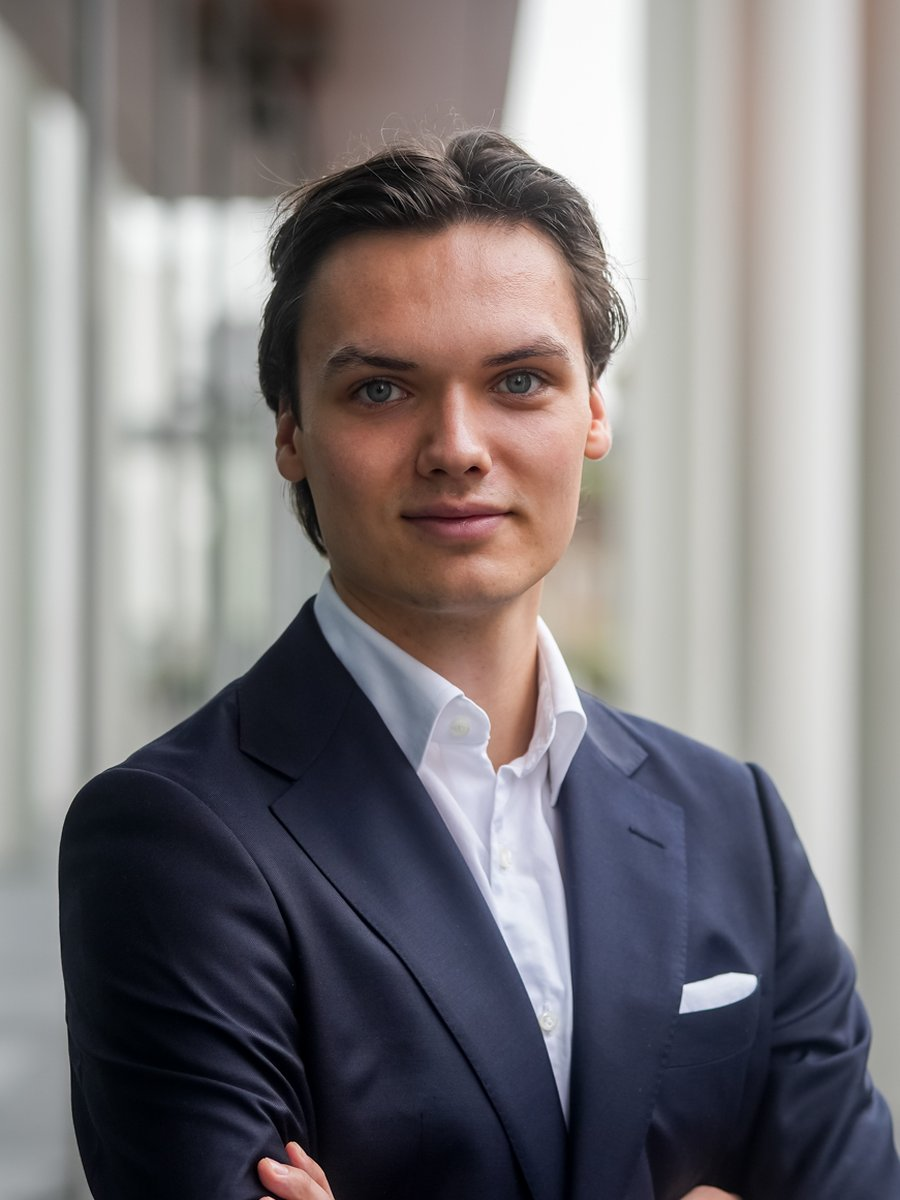
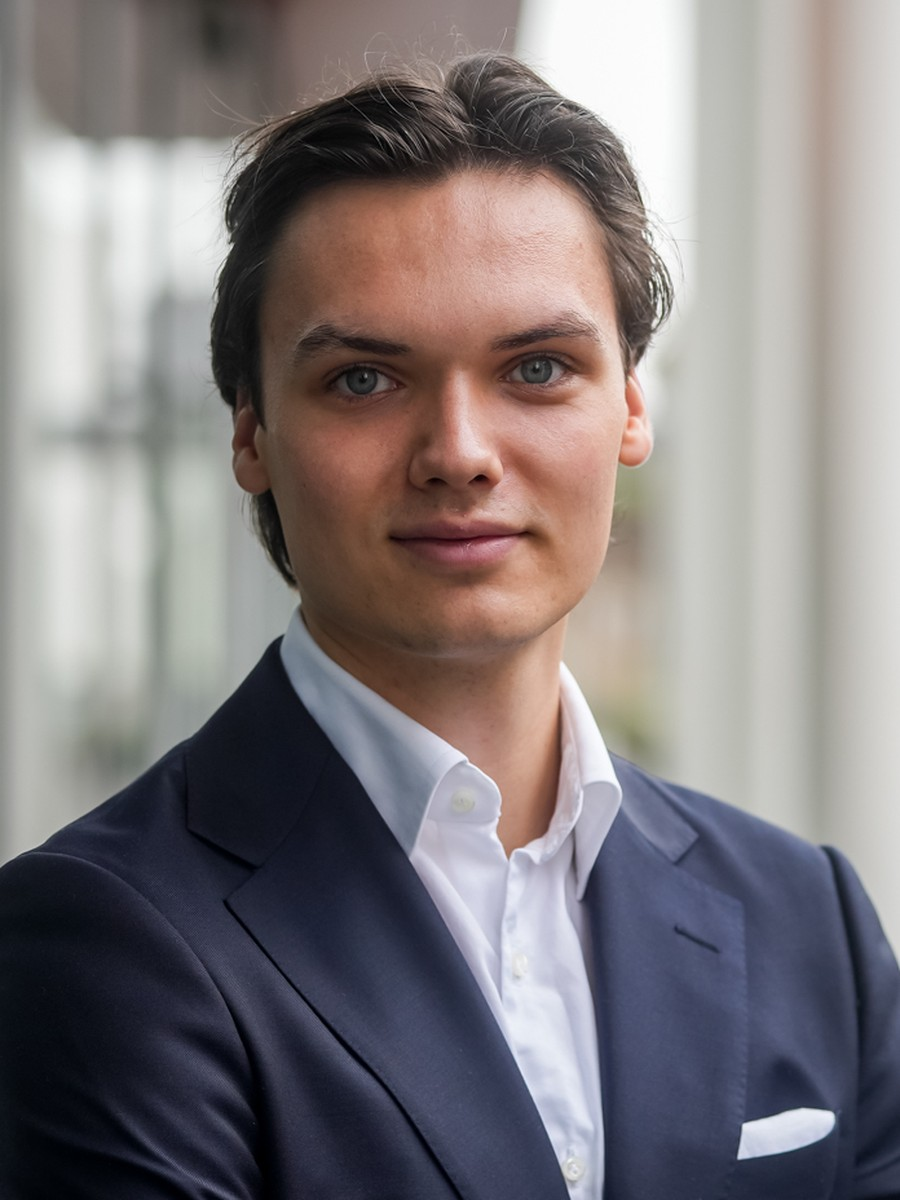
Aligned offer/expect rows, tighter crop for Carl, real event dates with 'dates may change' note
Claude-Session: https://claude.ai/code/session_01QhQBhvbkuQTZysh6s7LxmM

diff --git a/components/OfferExpect.tsx b/components/OfferExpect.tsx
@@ -6,33 +6,40 @@ export interface OfferItem {
   text: string;
 }
 
+/**
+ * One card. On large screens both cards share the same row grid (CSS
+ * subgrid), so item 1 sits next to item 1, item 2 next to item 2, etc.
+ */
 function OfferList({ title, items }: { title: string; items: OfferItem[] }) {
   return (
-    <div className="rounded-2xl bg-gray-50/80 border border-gray-100 p-7 sm:p-10">
-      <h2 className="text-3xl sm:text-4xl font-bold text-navy">{title}</h2>
-      <div className="section-divider mt-4" />
-      <ul className="mt-8 space-y-7">
-        {items.map((item) => (
-          <li key={item.title} className="flex gap-5">
-            <span className="flex-shrink-0 w-14 h-14 rounded-full bg-white shadow-sm flex items-center justify-center">
-              <Image src={item.icon} alt="" width={30} height={30} />
-            </span>
-            <div>
-              <h3 className="text-xl font-bold text-navy">{item.title}</h3>
-              <p className="mt-1 text-[16px] text-navy/70 leading-relaxed">{item.text}</p>
-            </div>
-          </li>
-        ))}
-      </ul>
+    <div
+      className="rounded-2xl bg-gray-50/80 border border-gray-100 p-7 sm:p-10 flex flex-col gap-7 lg:grid lg:grid-rows-subgrid"
+      style={{ gridRow: `span ${items.length + 1}` }}
+    >
+      <div>
+        <h2 className="text-3xl sm:text-4xl font-bold text-navy">{title}</h2>
+        <div className="section-divider mt-4" />
+      </div>
+      {items.map((item) => (
+        <div key={item.title} className="flex gap-5">
+          <span className="flex-shrink-0 w-14 h-14 rounded-full bg-white shadow-sm flex items-center justify-center">
+            <Image src={item.icon} alt="" width={30} height={30} />
+          </span>
+          <div>
+            <h3 className="text-xl font-bold text-navy">{item.title}</h3>
+            <p className="mt-1 text-[16px] text-navy/70 leading-relaxed">{item.text}</p>
+          </div>
+        </div>
+      ))}
     </div>
   );
 }
 
-/** "What we offer" (left) and "What we expect" (right), side by side */
+/** "What we offer" (left) and "What we expect" (right), side by side with aligned rows */
 export default function OfferExpect({ offer, expect }: { offer: OfferItem[]; expect: OfferItem[] }) {
   return (
     <section className="py-20 sm:py-28">
-      <div className="max-w-6xl mx-auto px-6 lg:px-8 grid grid-cols-1 lg:grid-cols-2 gap-6 lg:gap-8">
+      <div className="max-w-6xl mx-auto px-6 lg:px-8 grid grid-cols-1 lg:grid-cols-2 gap-x-6 lg:gap-x-8 gap-y-6 lg:gap-y-7">
         <OfferList title="What we offer" items={offer} />
         <OfferList title="What we expect" items={expect} />
       </div>

diff --git a/data/events.ts b/data/events.ts
@@ -2,7 +2,7 @@
  * Upcoming events shown on the homepage timeline.
  * - Events whose date has passed disappear automatically.
  * - `date`: 'YYYY-MM-DD', or leave empty for "Date to be announced".
- * - Replace the placeholder workshops below once the board has confirmed them.
+ * - Dates may still change; the timeline shows a note saying so.
  */
 
 export type EventType = 'Recruitment' | 'Workshop' | 'Social' | 'Event';
@@ -11,6 +11,8 @@ export interface UpcomingEvent {
   title: string;
   type: EventType;
   date?: string;
+  /** Last day for events over several days ('YYYY-MM-DD') */
+  endDate?: string;
   time?: string;
   location?: string;
   text?: string;
@@ -20,6 +22,19 @@ export interface UpcomingEvent {
 }
 
 export const upcomingEvents: UpcomingEvent[] = [
+  {
+    title: 'Inverto Workshop',
+    type: 'Workshop',
+    date: '2026-10-08',
+    text: 'Case competition with Inverto, followed by dinner together.',
+  },
+  {
+    title: 'M&A Workshop',
+    type: 'Workshop',
+    date: '2026-10-30',
+    location: 'With the Maastricht Finance Society',
+    text: 'Explore the world of mergers & acquisitions – with dinner afterwards.',
+  },
   {
     title: 'Info Night',
     type: 'Recruitment',
@@ -38,21 +53,23 @@ export const upcomingEvents: UpcomingEvent[] = [
     linkLabel: 'How to apply',
   },
   {
-    title: 'Workshop 1',
+    title: 'Bain Workshop',
     type: 'Workshop',
-    location: 'Partner to be announced',
-    text: 'Hands-on case workshop with one of our partner firms.',
+    date: '2026-11-05',
+    location: 'On site in Cologne',
+    text: 'Workshop at the Bain & Company office, followed by dinner and networking.',
   },
   {
-    title: 'Workshop 2',
+    title: 'ritzenhoefer Workshop',
     type: 'Workshop',
-    location: 'Partner to be announced',
-    text: 'Hands-on case workshop with one of our partner firms.',
+    date: '2026-11-12',
+    text: 'Hands-on workshop with ritzenhoefer & company.',
   },
   {
-    title: 'Workshop 3',
-    type: 'Workshop',
-    location: 'Partner to be announced',
-    text: 'Hands-on case workshop with one of our partner firms.',
+    title: 'Application interviews',
+    type: 'Recruitment',
+    date: '2026-11-23',
+    endDate: '2026-11-24',
+    text: 'Interviews with shortlisted applicants for the next project period.',
   },
 ];

diff --git a/components/EventsTimeline.tsx b/components/EventsTimeline.tsx
@@ -11,7 +11,7 @@ const typeStyles: Record<string, string> = {
   Event: 'bg-gray-100 text-gray-600',
 };
 
-function DateBadge({ date }: { date?: string }) {
+function DateBadge({ date, endDate }: { date?: string; endDate?: string }) {
   if (!date) {
     return (
       <div className="w-16 h-16 rounded-xl border-2 border-dashed border-navy/40 bg-white flex flex-col items-center justify-center leading-none text-navy/50">
@@ -26,7 +26,10 @@ function DateBadge({ date }: { date?: string }) {
       <span className="text-[10px] font-bold uppercase tracking-wider text-gray-500">
         {d.toLocaleDateString('en-GB', { month: 'short' })}
       </span>
-      <span className="text-2xl font-bold mt-1 text-navy tabular-nums">{d.getDate()}</span>
+      <span className={`${endDate ? 'text-lg' : 'text-2xl'} font-bold mt-1 text-navy tabular-nums`}>
+        {d.getDate()}
+        {endDate && `–${new Date(`${endDate}T12:00:00`).getDate()}`}
+      </span>
     </div>
   );
 }
@@ -35,7 +38,7 @@ function EventCard({ e }: { e: UpcomingEvent }) {
   return (
     <div className="relative flex-shrink-0 w-[260px] sm:w-[280px] snap-start">
       <div className="relative z-10">
-        <DateBadge date={e.date} />
+        <DateBadge date={e.date} endDate={e.endDate} />
       </div>
       <div className="mt-5 rounded-xl bg-white border border-gray-100 shadow-sm p-5 h-[225px] flex flex-col">
         <span className={`self-start rounded-full px-2.5 py-1 text-[11px] font-bold uppercase tracking-wider ${typeStyles[e.type]}`}>
@@ -61,7 +64,7 @@ export default function EventsTimeline() {
   const [events, setEvents] = useState(upcomingEvents);
   useEffect(() => {
     const today = new Date().toISOString().slice(0, 10);
-    setEvents(upcomingEvents.filter((e) => !e.date || e.date >= today));
+    setEvents(upcomingEvents.filter((e) => !e.date || (e.endDate ?? e.date) >= today));
   }, []);
 
   if (events.length === 0) return null;
@@ -86,6 +89,7 @@ export default function EventsTimeline() {
             ))}
           </div>
         </div>
+        <p className="mt-6 text-navy/45 text-sm">*Dates may still change.</p>
       </div>
     </section>
   );
